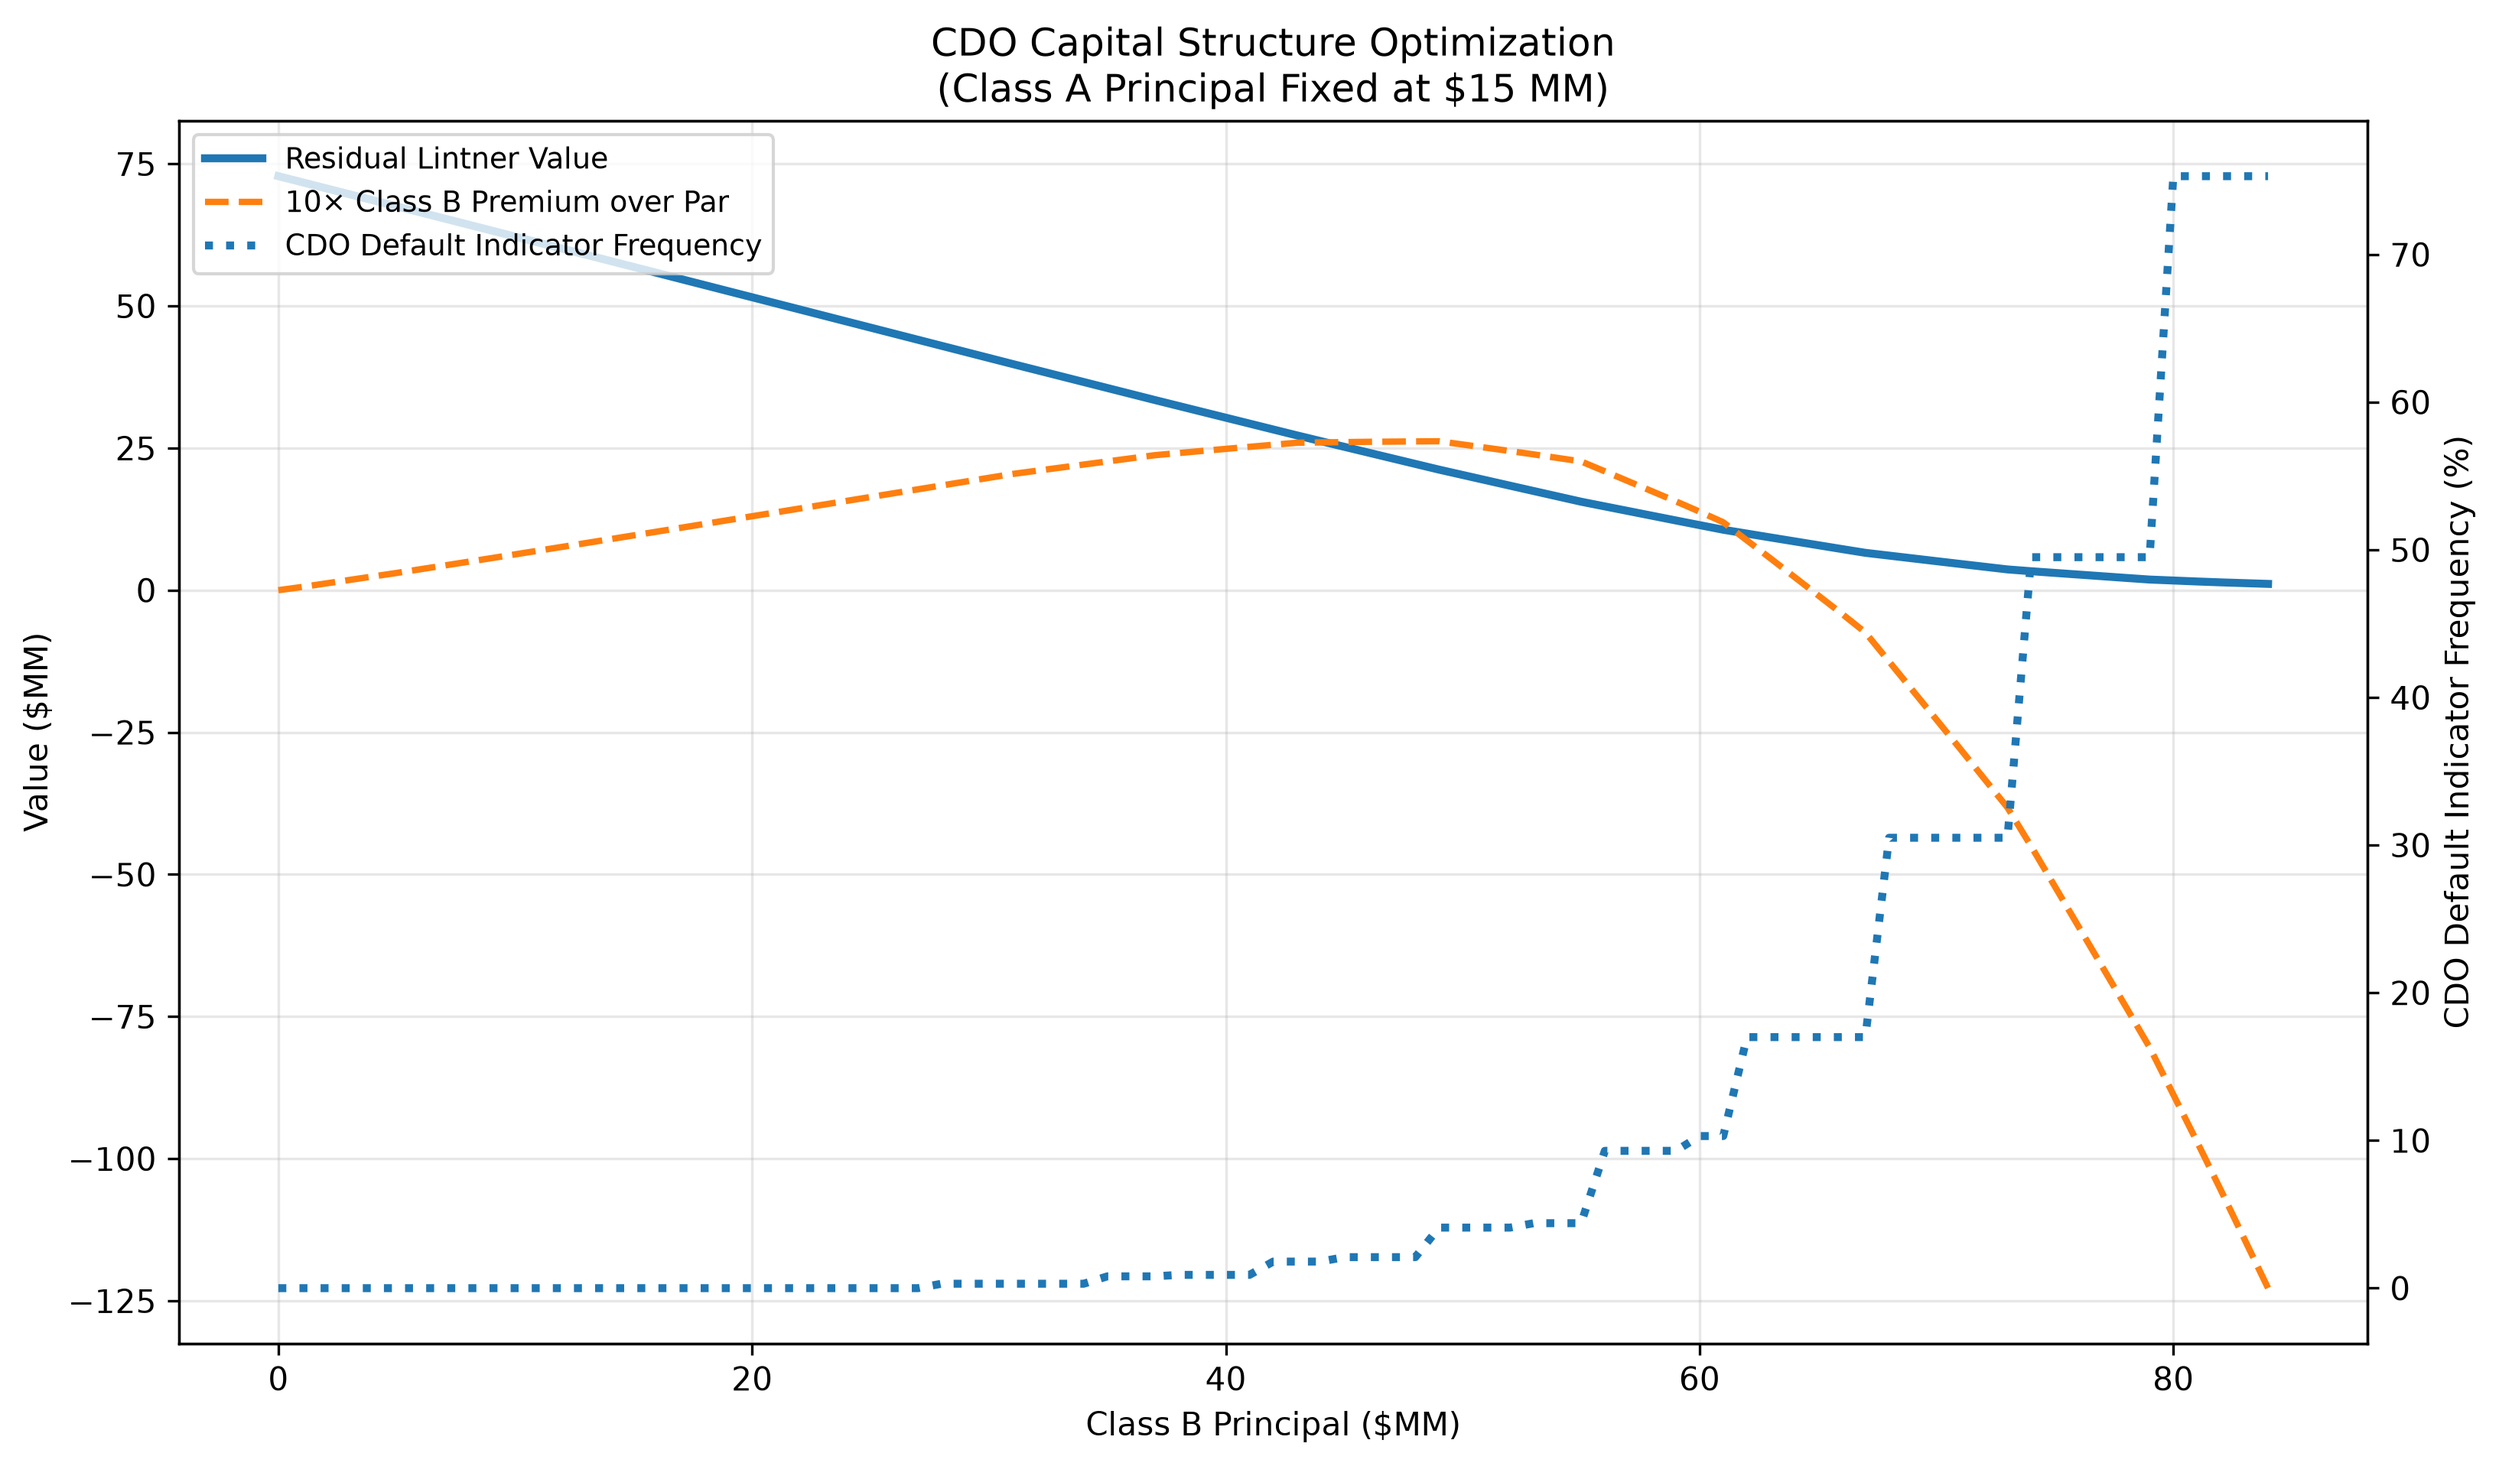
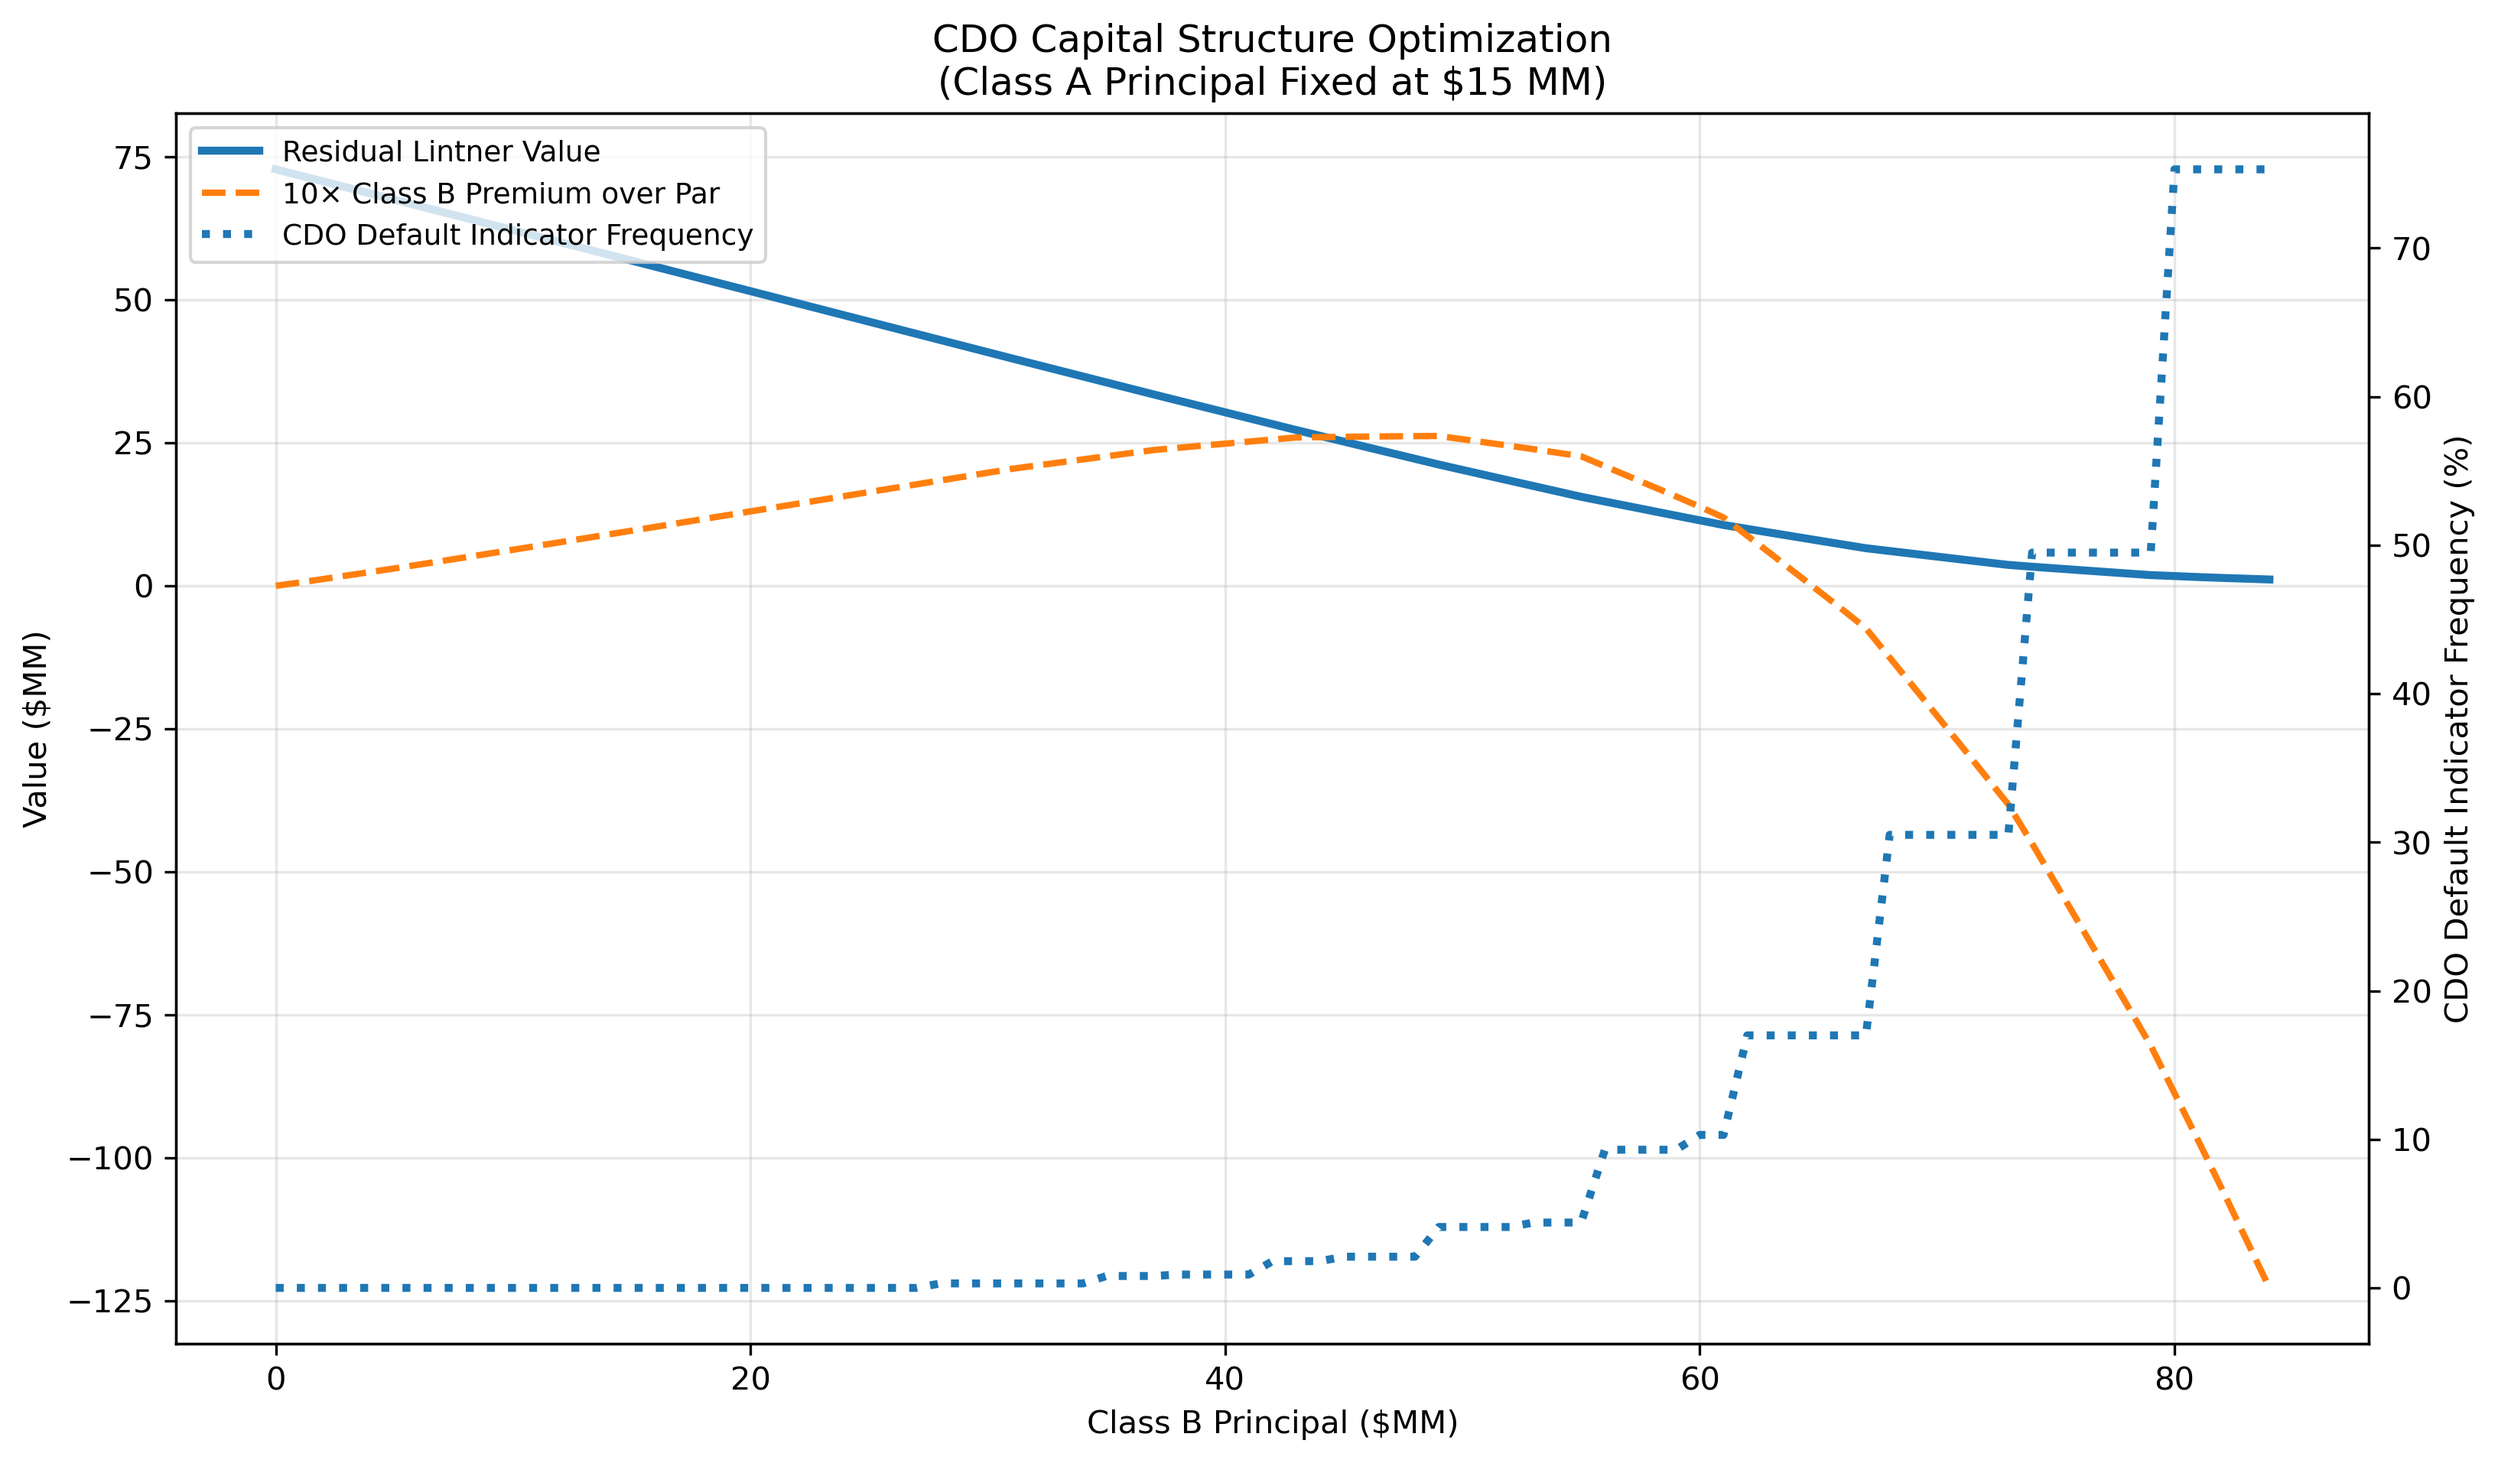
Finalize Part 2 Lintner valuation and optimization

diff --git a/cdo_from_scratch.py b/cdo_from_scratch.py
@@ -516,17 +516,23 @@ print(np.round(cov_matrix / 1_000_000**2, 4))
 # Part 2 - Default Indicator
 # -----------------------------
 
-default_indicator = (
+collateral_default_indicator = (
     default_quarters <= N_QUARTERS
 ).any(axis=1).astype(int)
 
-default_scenario_count = default_indicator.sum()
-default_scenario_probability = default_indicator.mean()
+default_scenario_count = collateral_default_indicator.sum()
+default_scenario_probability = collateral_default_indicator.mean()
 
-print("\nCollateral Default Indicator")
-print("----------------------------")
-print(f"Scenarios with at least one default: {default_scenario_count}")
-print(f"Probability of at least one default: {default_scenario_probability:.2%}")
+print("\nCollateral Bond Default Indicator")
+print("---------------------------------")
+print(
+    f"Scenarios with at least one collateral bond default: "
+    f"{default_scenario_count}"
+)
+print(
+    f"Probability of at least one collateral bond default: "
+    f"{default_scenario_probability:.2%}"
+)
 
 # -----------------------------
 # Part 2 - Step 4: Market Value of Underlying Bonds
@@ -846,8 +852,14 @@ def value_structure(class_B_notional):
     )
 
     # -----------------------------
-    # 7. Default / shortfall indicator
-    # -----------------------------
+# 7. CDO default / shortfall indicator
+# -----------------------------
+
+    A_interest_due_all = (
+        A_balance[:, :-1]
+        * CLASS_A_COUPON
+        / QUARTERS_PER_YEAR
+    )
 
     B_interest_due_all = (
         B_balance[:, :-1]
@@ -855,9 +867,19 @@ def value_structure(class_B_notional):
         / QUARTERS_PER_YEAR
     )
 
+    A_interest_shortfall = np.maximum(
+        A_interest_due_all - A_interest_cf,
+        0
+    )
+
     B_interest_shortfall = np.maximum(
         B_interest_due_all - B_interest_cf,
         0
+    )
+
+    A_default_indicator = (
+        (A_interest_shortfall.sum(axis=1) > 1e-6)
+        | (A_balance[:, -1] > 1e-6)
     )
 
     B_default_indicator = (
@@ -865,8 +887,13 @@ def value_structure(class_B_notional):
         | (B_balance[:, -1] > 1e-6)
     )
 
-    B_default_probability = (
-        B_default_indicator.mean()
+    CDO_default_indicator = (
+        A_default_indicator
+        | B_default_indicator
+    )
+
+    CDO_default_probability = (
+        CDO_default_indicator.mean()
     )
 
     # -----------------------------
@@ -878,19 +905,18 @@ def value_structure(class_B_notional):
     # and keeps the residual.
     #
 
-    bank_value = (
-        CLASS_A_NOTIONAL
-        + class_B_notional
-        + lintner_values[2]
-    )
+    # bank_value = (
+    #     CLASS_A_NOTIONAL
+    #     + class_B_notional
+    #     + lintner_values[2]
+    # )
 
     return {
-        "B Notional": class_B_notional,
-        "A Value": lintner_values[0],
-        "B Value": lintner_values[1],
-        "Residual Value": lintner_values[2],
-        "B Default Probability": B_default_probability,
-        "Bank Value": bank_value
+    "B Notional": class_B_notional,
+    "A Value": lintner_values[0],
+    "B Value": lintner_values[1],
+    "Residual Value": lintner_values[2],
+    "CDO Default Probability": CDO_default_probability
     }
 
 # -----------------------------
@@ -954,8 +980,8 @@ plot_df["B Premium MM"] = (
     - plot_df["B Notional"]
 ) / 1_000_000
 
-plot_df["B Default Probability %"] = (
-    plot_df["B Default Probability"] * 100
+plot_df["CDO Default Probability %"] = (
+    plot_df["CDO Default Probability"] * 100
 )
 
 # ------------------------------------------------------------
@@ -1004,7 +1030,7 @@ ax2 = ax1.twinx()
 
 ax2.plot(
     plot_df["B Notional MM"],
-    plot_df["B Default Probability %"],
+    plot_df["CDO Default Probability %"],
     linestyle=":",
     linewidth=2.5,
     label="CDO Default Indicator Frequency"
@@ -1064,8 +1090,7 @@ for col in [
     "B Notional",
     "A Value",
     "B Value",
-    "Residual Value",
-    "Bank Value"
+    "Residual Value"
 ]:
 
     optimization_display[col] = (
@@ -1088,7 +1113,7 @@ print(
 # -----------------------------
 
 zero_default_df = optimization_df[
-    optimization_df["B Default Probability"] == 0
+    optimization_df["CDO Default Probability"] == 0
 ].copy()
 
 best_zero_default_idx = (
@@ -1123,8 +1148,8 @@ print(
 )
 
 print(
-    f"B Default Probability: "
-    f"{best_zero_default['B Default Probability']:.2%}"
+    f"CDO Default Probability: "
+    f"{best_zero_default['CDO Default Probability']:.2%}"
 )
 
 # -----------------------------
@@ -1153,8 +1178,7 @@ for col in [
     "B Notional",
     "A Value",
     "B Value",
-    "Residual Value",
-    "Bank Value"
+    "Residual Value"
 ]:
     fine_display[col] = (
         fine_display[col] / 1_000_000
@@ -1168,14 +1192,14 @@ print(
             "B Notional",
             "B Value",
             "Residual Value",
-            "B Default Probability"
+            "CDO Default Probability"
         ]
     ].round(4).to_string(index=False)
 )
 
 # Maximum B with zero simulated default
 fine_zero_default = fine_df[
-    fine_df["B Default Probability"] == 0
+    fine_df["CDO Default Probability"] == 0
 ]
 
 best_fine_idx = (
@@ -1205,8 +1229,8 @@ print(
 )
 
 print(
-    f"B Default Probability: "
-    f"{best_fine['B Default Probability']:.2%}"
+    f"CDO Default Probability: "
+    f"{best_fine['CDO Default Probability']:.2%}"
 )
 
 # print("\nCase 1 - Class A Total CF:")
@@ -1769,18 +1793,18 @@ plt.savefig(
 
 plt.close()
 
-while True:
+# while True:
 
-    user_input = input(
-        "\nEnter a case number (1-1000), or 'q' to quit: "
-    )
+#     user_input = input(
+#         "\nEnter a case number (1-1000), or 'q' to quit: "
+#     )
 
-    if user_input.lower() == "q":
-        break
+#     if user_input.lower() == "q":
+#         break
 
-    try:
-        case_num = int(user_input)
-        view_case(case_num)
+#     try:
+#         case_num = int(user_input)
+#         view_case(case_num)
 
-    except ValueError:
-        print("Please enter a valid case number from 1 to 1000.")
+#     except ValueError:
+#         print("Please enter a valid case number from 1 to 1000.")
